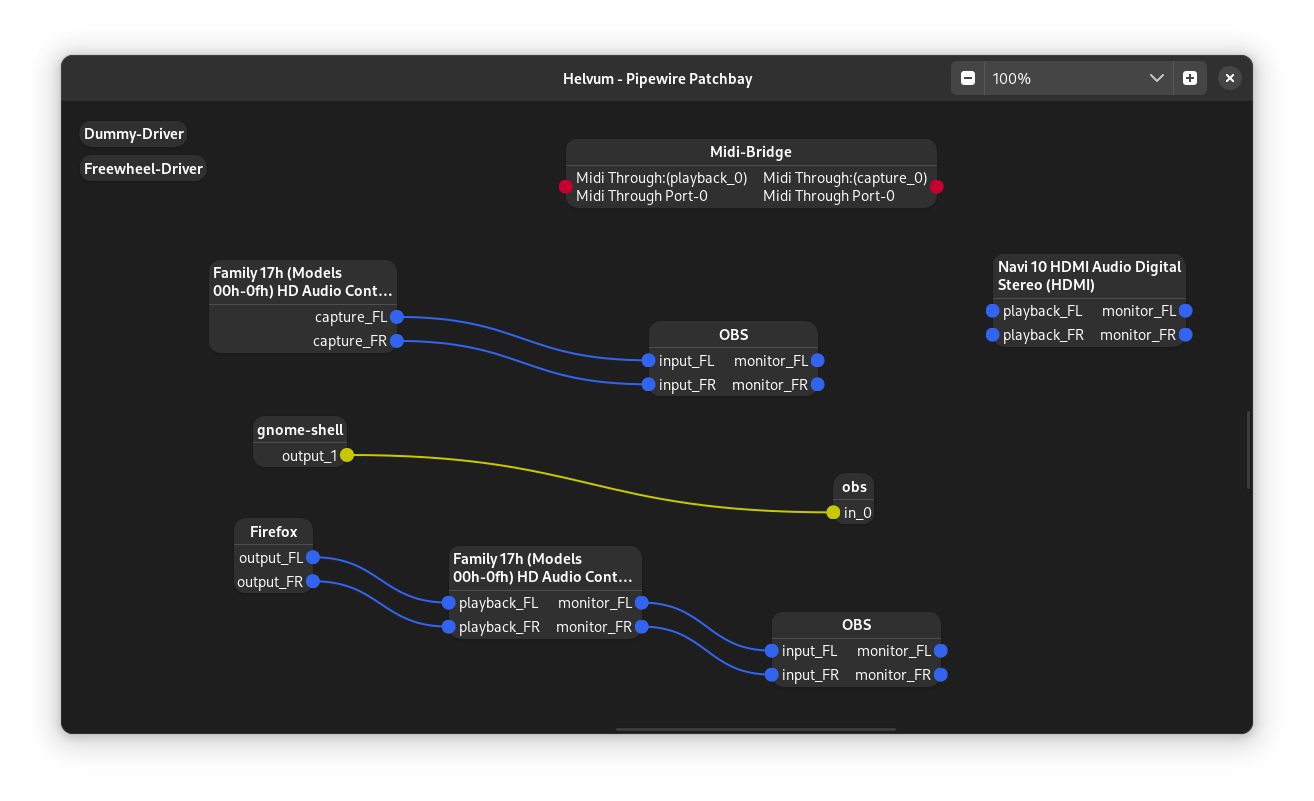
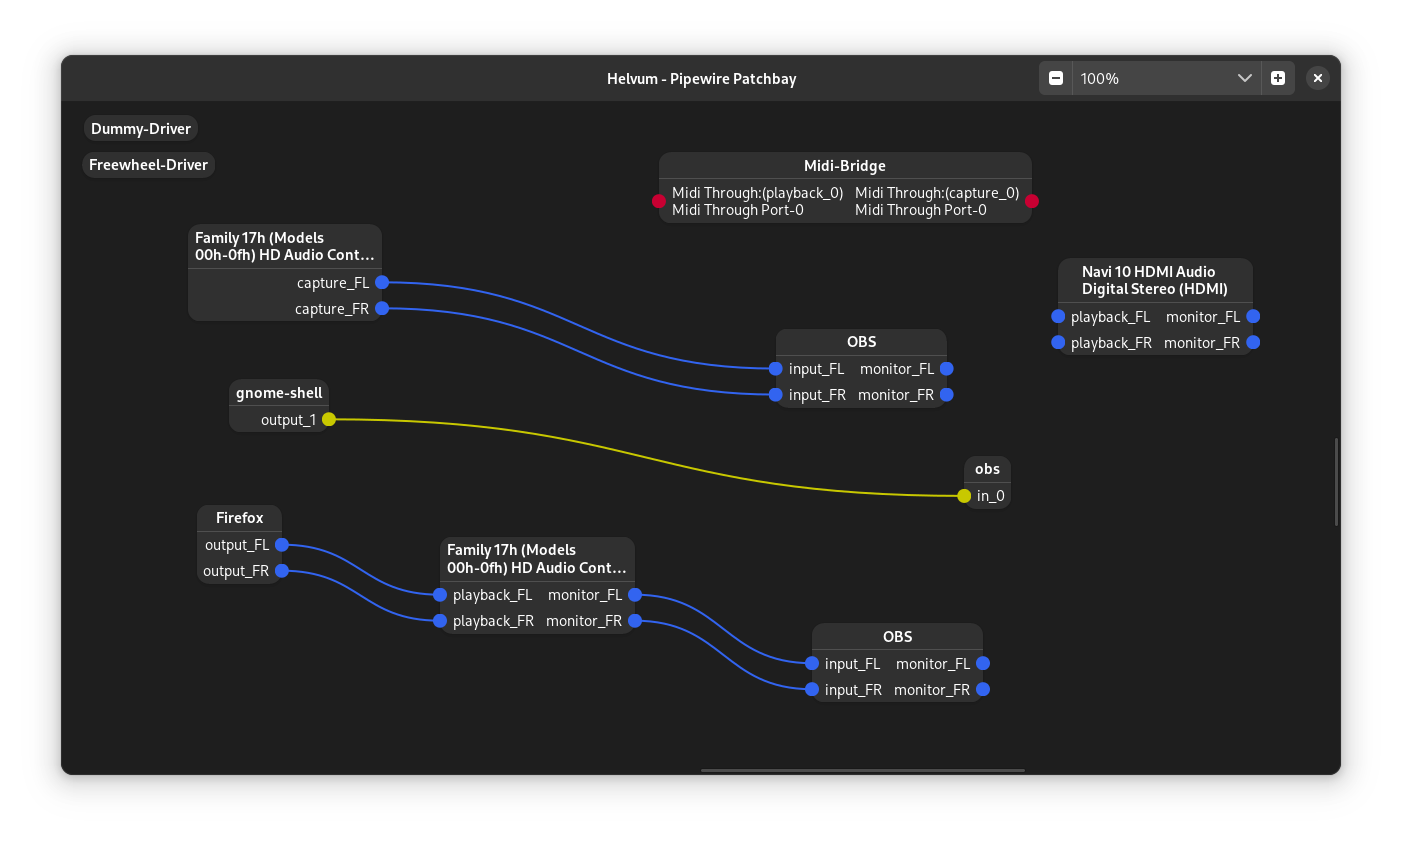
css: Add more padding to node and port names, remove column spacing in ports grid

diff --git a/src/style.css b/src/style.css
@@ -42,11 +42,11 @@ node {
 }
 
 node label.heading {
-	padding: 4px;
+	padding: 4px 7px;
 }
 
 port label {
-    padding: 3px;
+    padding: 4px 6px;
 }
 
 port-handle {
